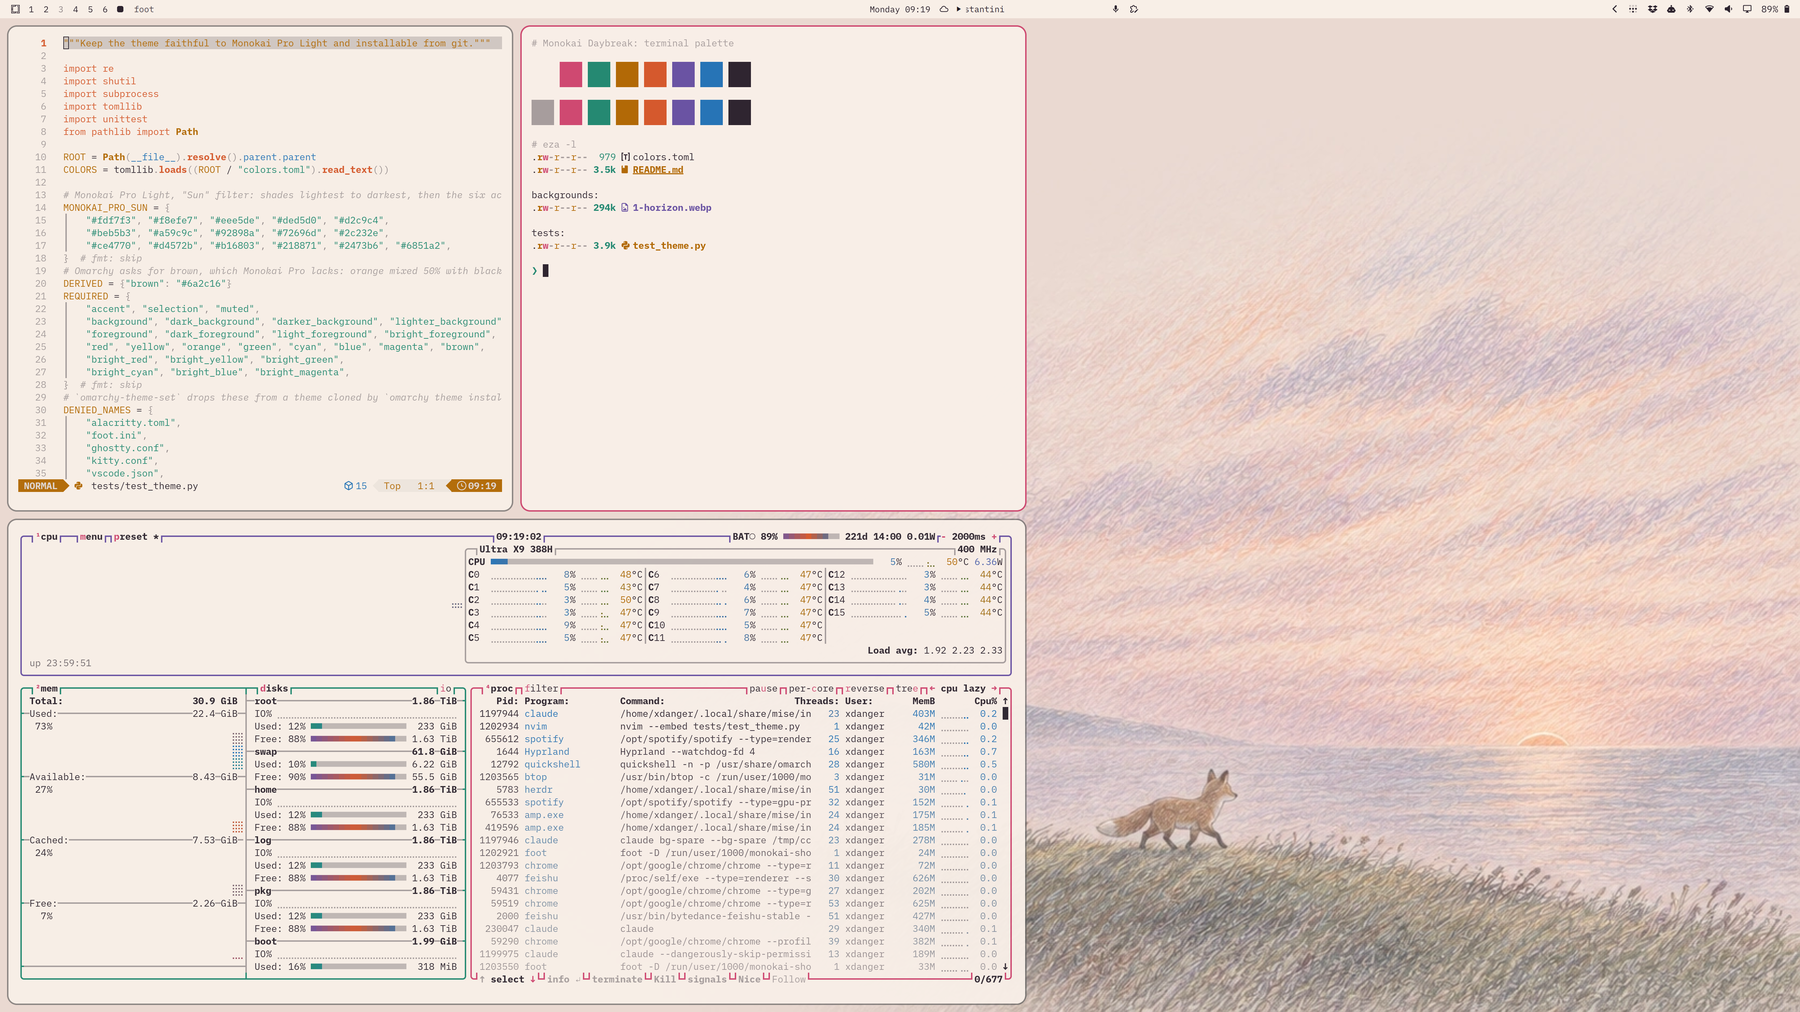
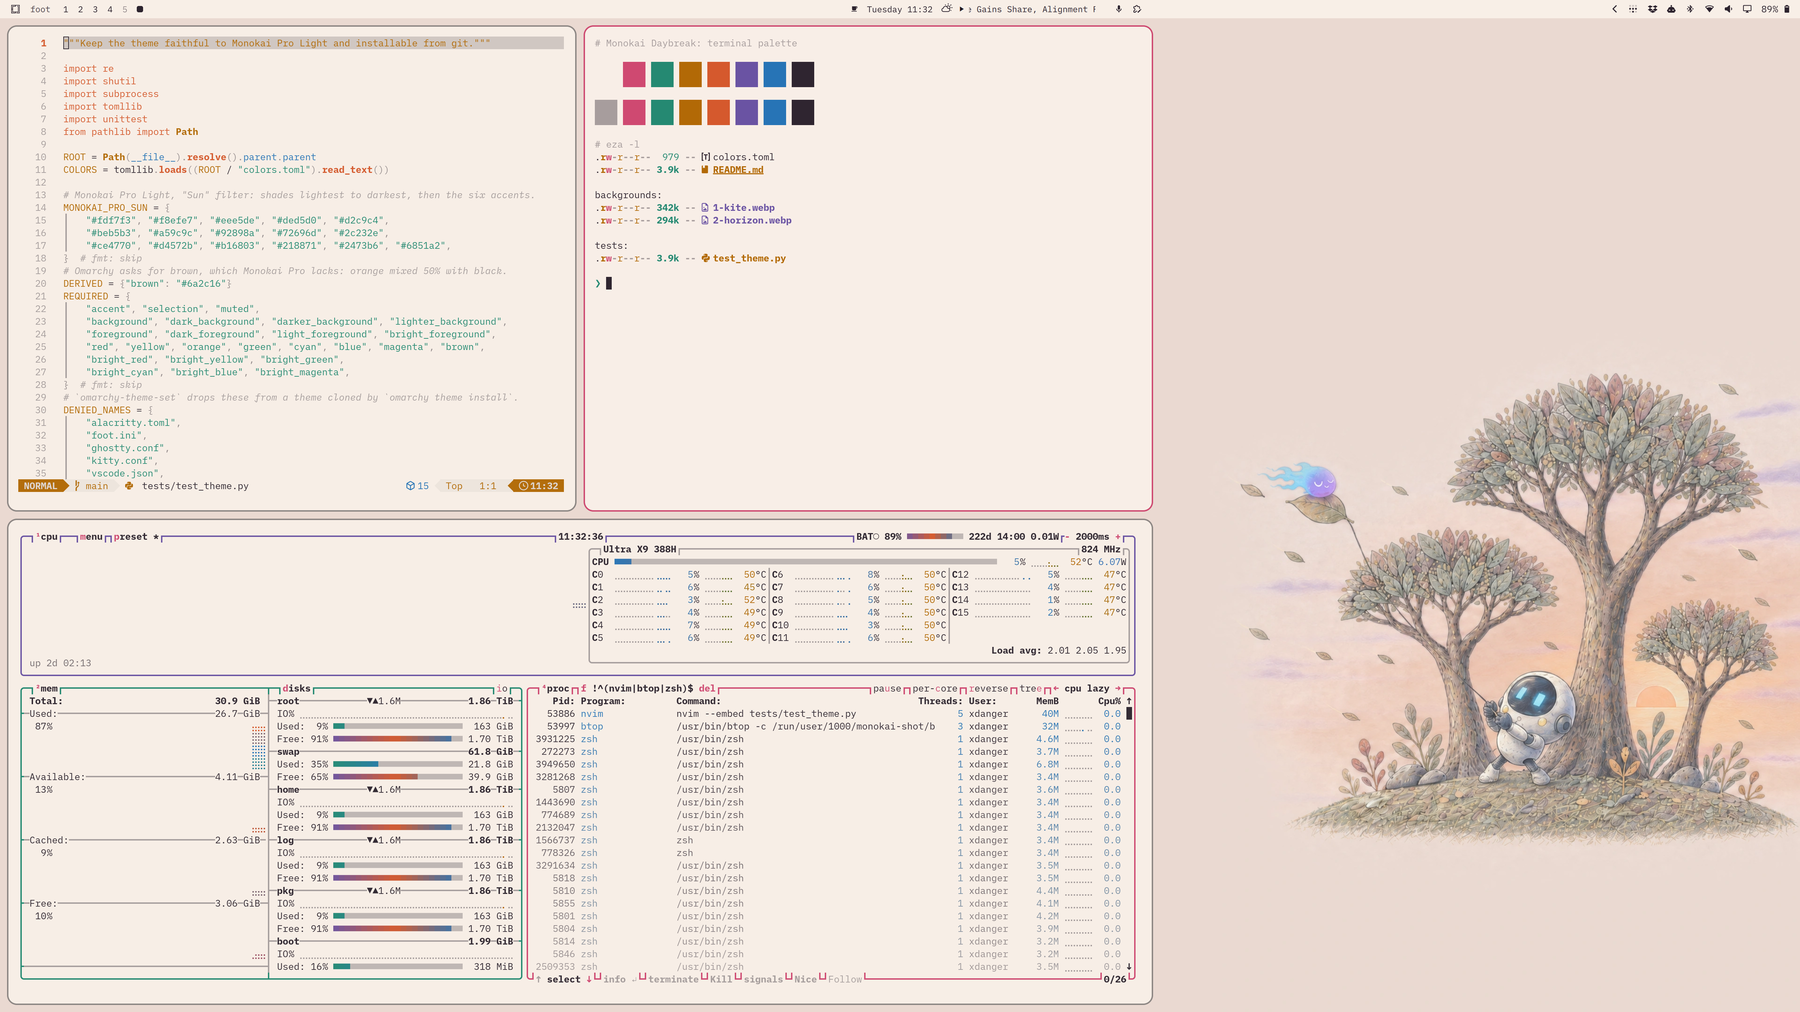
📝 docs(screenshots): retake with the default wallpaper
- :camera_flash: show the new default wallpaper on the 5K display, so the gallery matches what the theme sets
- :see_no_evil: limit btop's process list to the shot's own programs so no private commands appear

Claude-Session: https://claude.ai/code/session_01KcMBmdTUYPsxUBktRW77dF

diff --git a/README.md b/README.md
@@ -1,6 +1,6 @@
 # Monokai Daybreak for Omarchy
 
-![Monokai Daybreak on Omarchy: Neovim, a terminal and btop beside the pencil daybreak wallpaper](screenshots/desktop.webp)
+![Monokai Daybreak on Omarchy: Neovim, a terminal and btop beside the default wallpaper of Pululu flying a kite at sunrise](screenshots/desktop.webp)
 
 Monokai Daybreak is an unofficial light Omarchy theme, installed as
 `monokai-daybreak`. It uses the [Monokai Pro](https://monokai.pro/) Light
